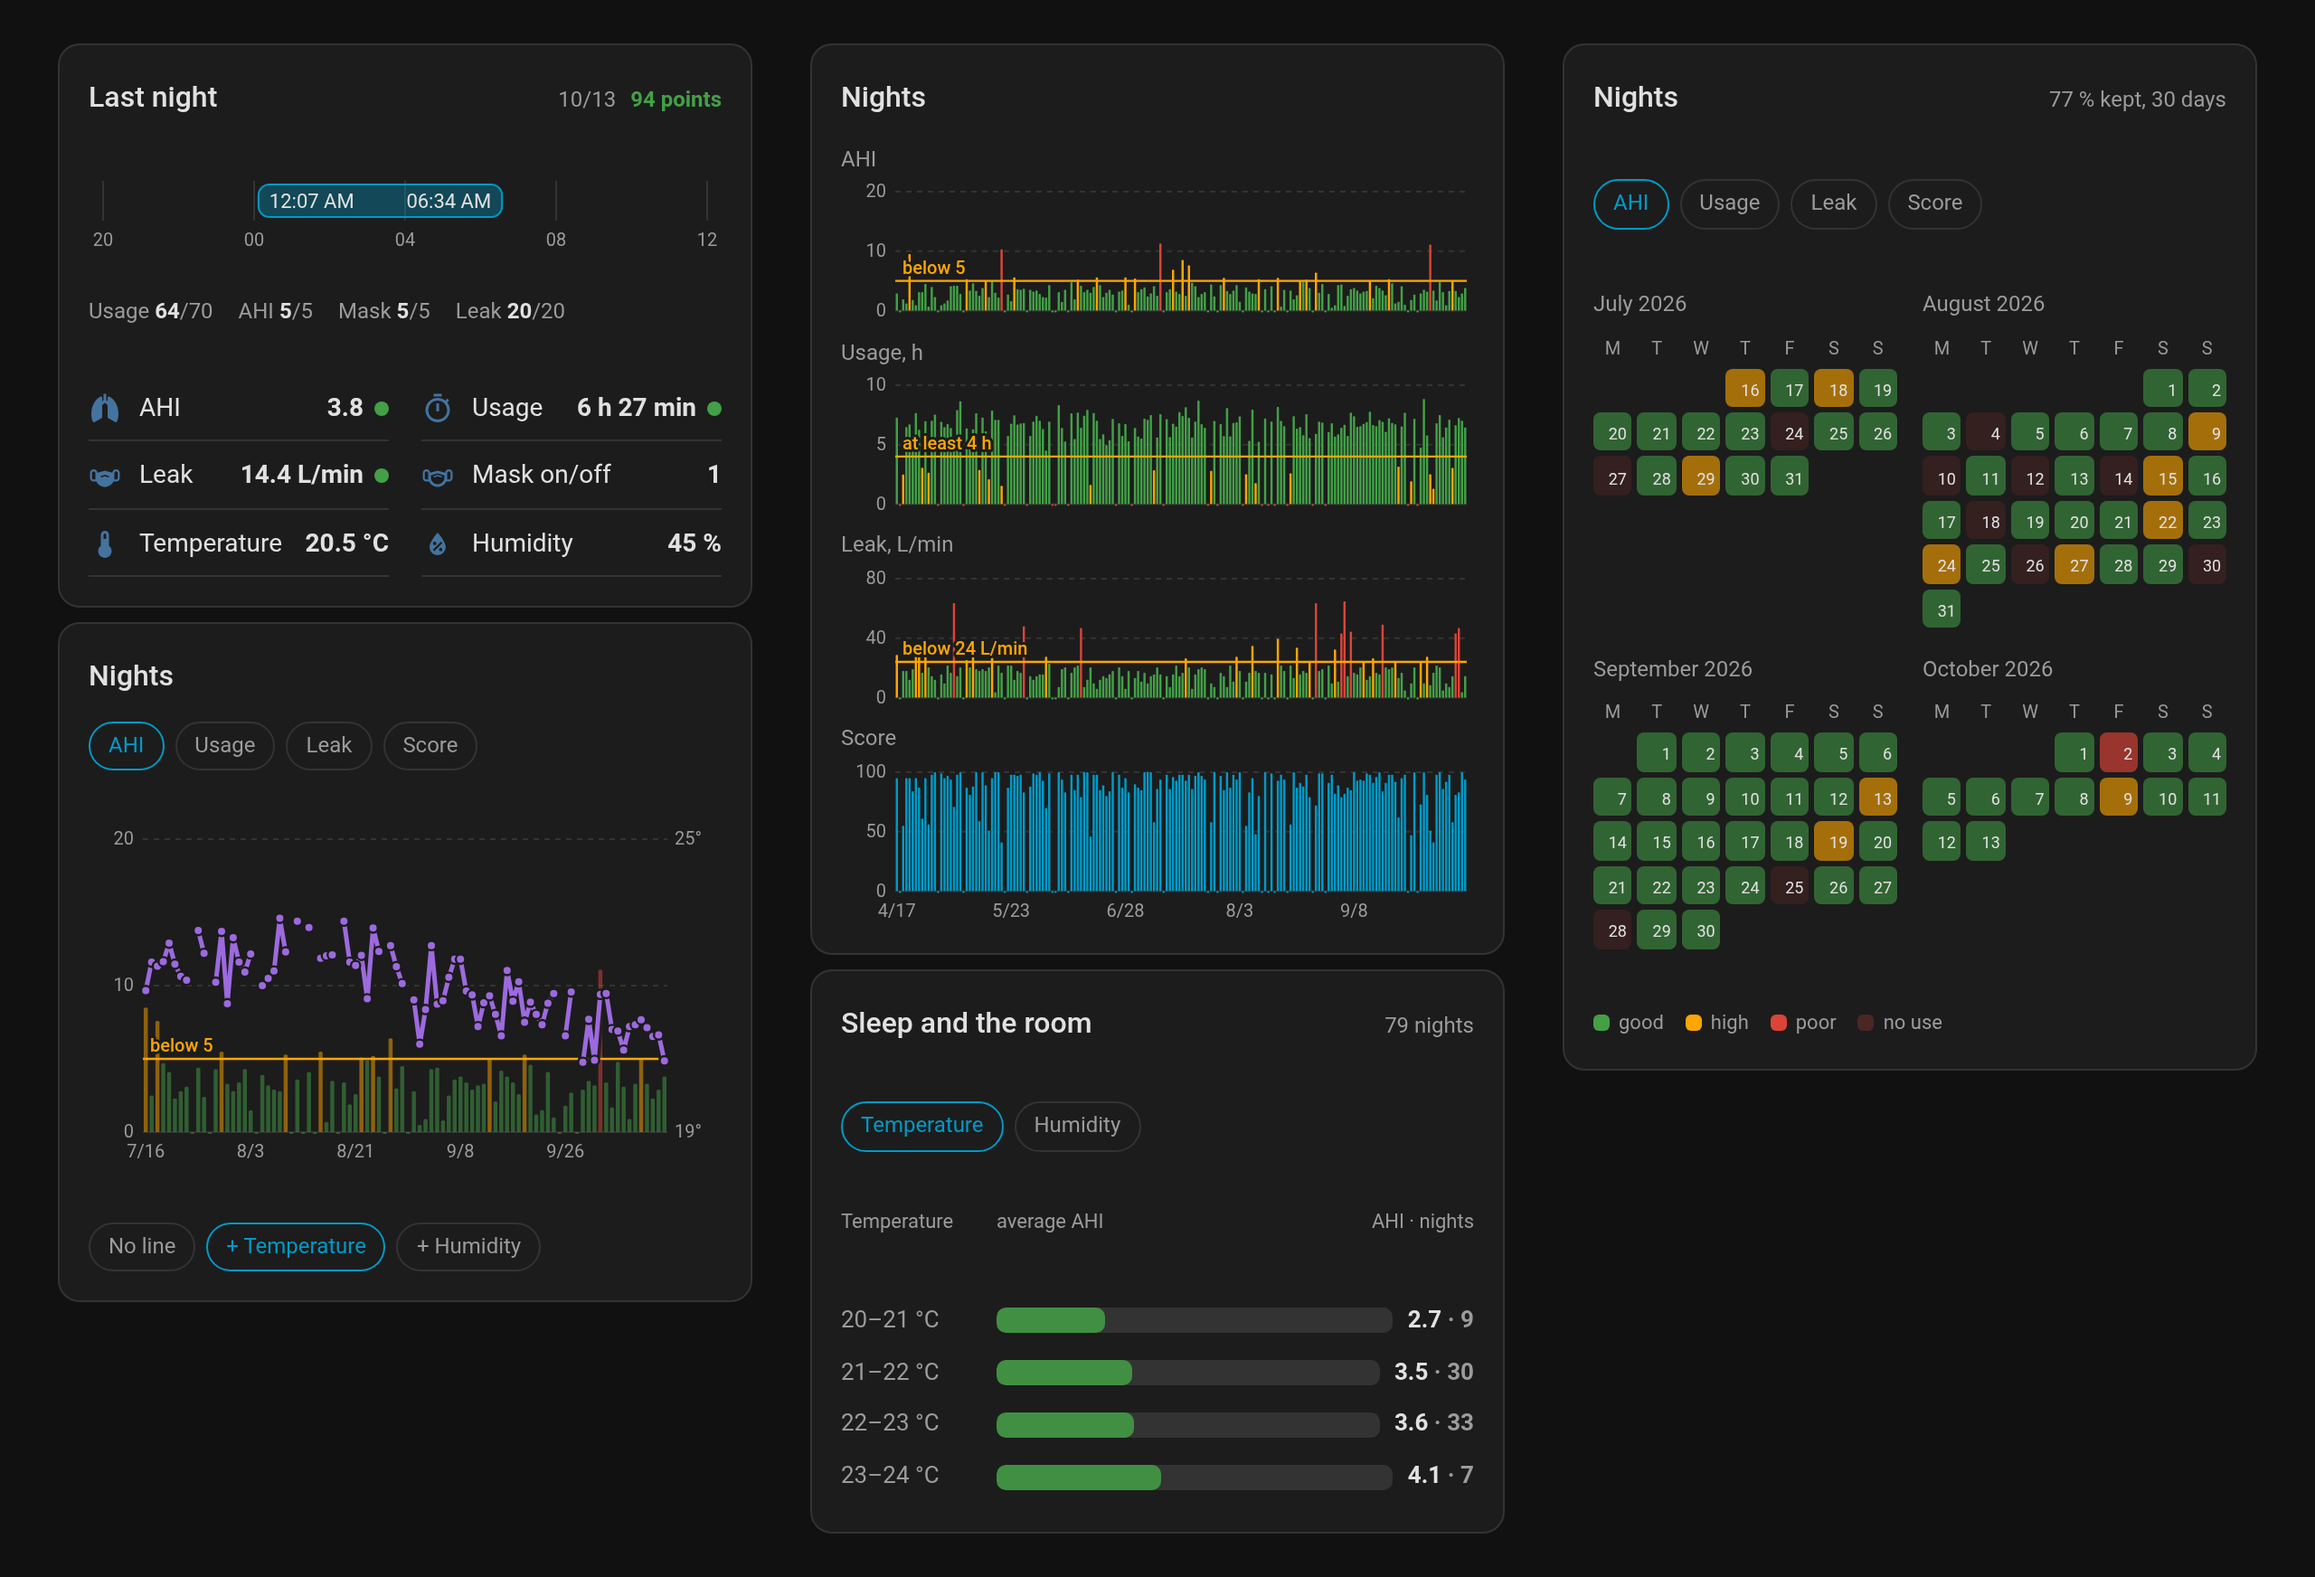
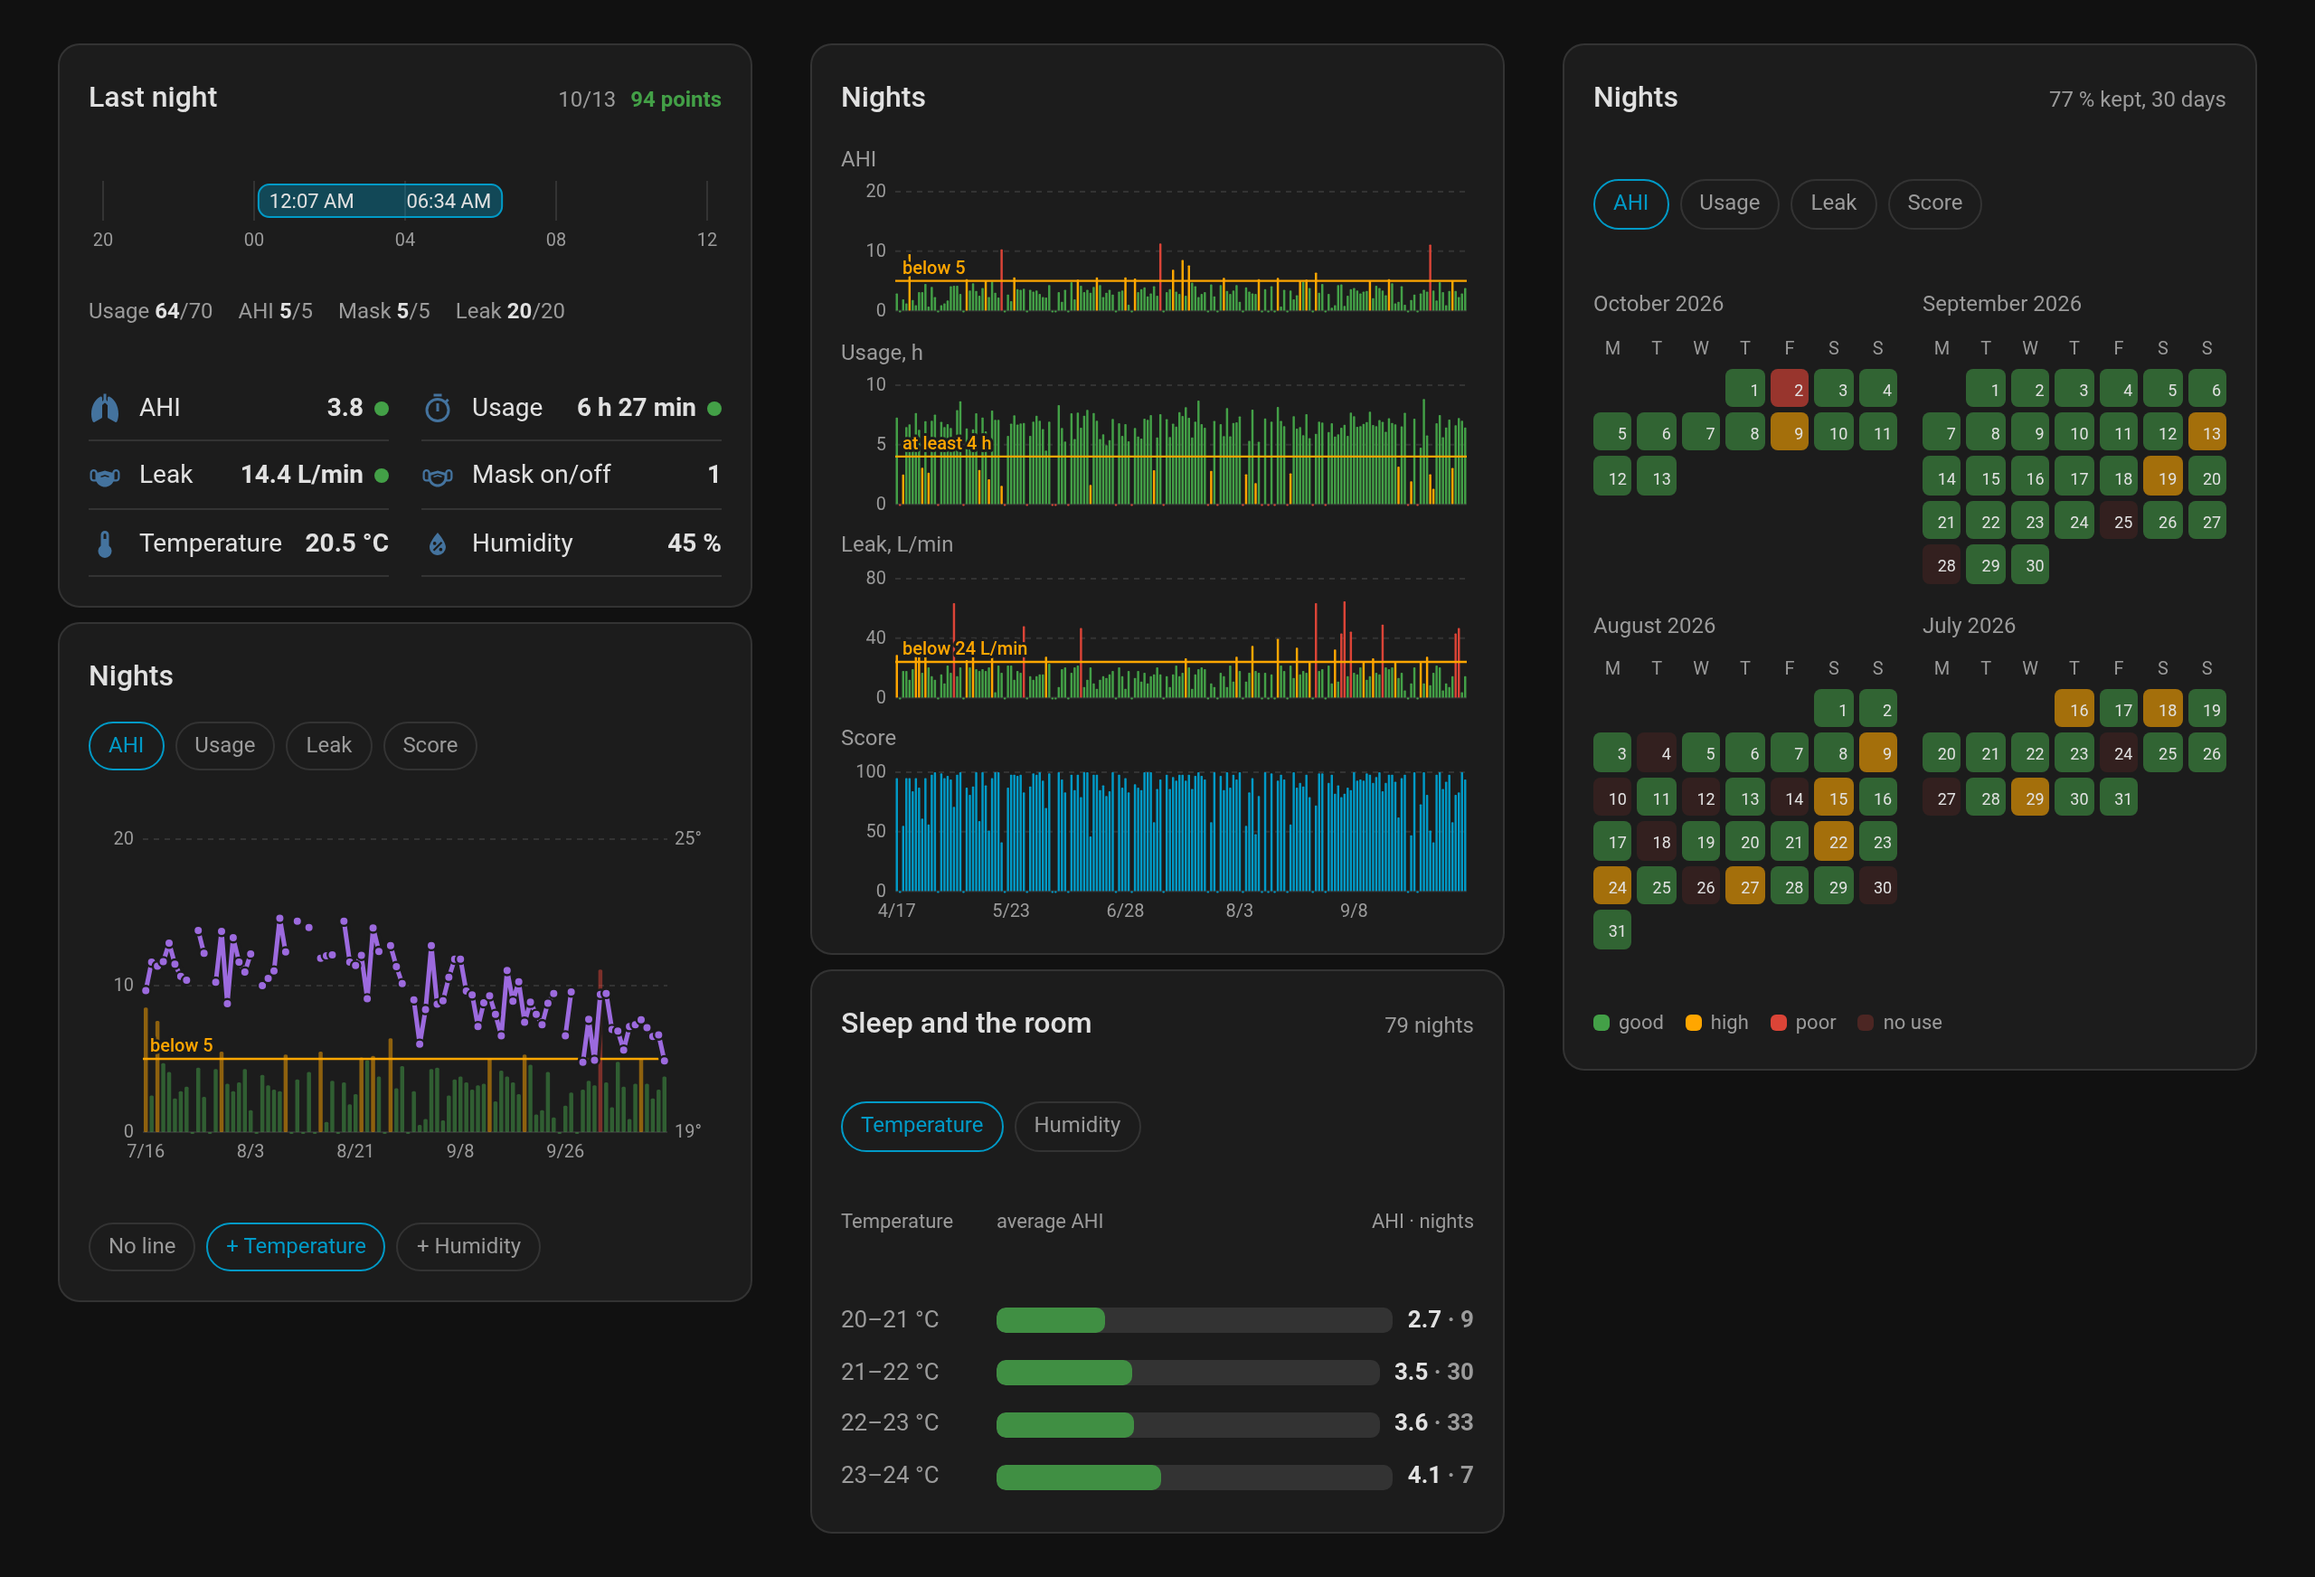
Show the calendar's newest month first

diff --git a/frontend/src/resmed-myair-sleep-card.ts b/frontend/src/resmed-myair-sleep-card.ts
@@ -125,8 +125,6 @@ export class ResmedMyairSleepCard extends LitElement {
     private frame?: number;
     private readonly resizes = typeof ResizeObserver === "undefined" ? undefined : new ResizeObserver(() => this.measureSoon());
     private observed?: Element;
-    /** The calendar last scrolled to its newest month, so a user's own scrolling stays until the calendar is drawn anew. */
-    private scrolledCalendar?: Element;
 
     public constructor() {
         super();
@@ -260,11 +258,6 @@ export class ResmedMyairSleepCard extends LitElement {
         }
         if (![...changed.keys()].every((key) => ["extra", "gap", "filled", "held", "heldSpread", "hovered"].includes(String(key)))) {
             this.measureSoon();
-        }
-        const calendar = this.renderRoot.querySelector(".scroller.calendar");
-        if (calendar && calendar !== this.scrolledCalendar && calendar.scrollHeight > calendar.clientHeight) {
-            calendar.scrollTop = calendar.scrollHeight;
-            this.scrolledCalendar = calendar;
         }
     }
 
@@ -558,7 +551,8 @@ export class ResmedMyairSleepCard extends LitElement {
         const end = windowEnd(nights, this.today());
         const days = nightsIn(nights, end, this.days());
         const byDate = new Map(days.map((day) => [day.date, day.night]));
-        const months = [...new Set(days.map(({ date }) => date.slice(0, 7)))];
+        // The newest month first, so it is in view at the top left however far back the calendar reaches.
+        const months = [...new Set(days.map(({ date }) => date.slice(0, 7)))].reverse();
         const weekdays = Array.from({ length: 7 }, (_, index) =>
             new Intl.DateTimeFormat(this.language(), { weekday: "narrow", timeZone: "UTC" }).format(new Date(Date.UTC(2024, 0, 1 + index))),
         );
@@ -586,7 +580,7 @@ export class ResmedMyairSleepCard extends LitElement {
                     ${months.map((month) => {
                         const first = `${month}-01`;
                         const length = new Date(Date.UTC(Number(month.slice(0, 4)), Number(month.slice(5)), 0)).getUTCDate();
-                        // The first month starts at the week of the window's first day, not with weeks of empty days.
+                        // The oldest month starts at the week of the window's first day, not with weeks of empty days.
                         const weekday = (date: string) => (new Date(`${date}T00:00:00Z`).getUTCDay() + 6) % 7;
                         const shown = days[0] && days[0].date > first ? addDays(days[0].date, -weekday(days[0].date)) : first;
                         const from = shown < first ? first : shown;

diff --git a/custom_components/resmed_myair_sleep/www/resmed-myair-sleep-card.js b/custom_components/resmed_myair_sleep/www/resmed-myair-sleep-card.js
@@ -1560,11 +1560,6 @@ var ResmedMyairSleepCard = class extends i4 {
     if (![...changed.keys()].every((key) => ["extra", "gap", "filled", "held", "heldSpread", "hovered"].includes(String(key)))) {
       this.measureSoon();
     }
-    const calendar = this.renderRoot.querySelector(".scroller.calendar");
-    if (calendar && calendar !== this.scrolledCalendar && calendar.scrollHeight > calendar.clientHeight) {
-      calendar.scrollTop = calendar.scrollHeight;
-      this.scrolledCalendar = calendar;
-    }
   }
   // ---- Data ----
   async fetch() {
@@ -1817,7 +1812,7 @@ var ResmedMyairSleepCard = class extends i4 {
     const end = windowEnd(nights, this.today());
     const days = nightsIn(nights, end, this.days());
     const byDate = new Map(days.map((day) => [day.date, day.night]));
-    const months = [...new Set(days.map(({ date }) => date.slice(0, 7)))];
+    const months = [...new Set(days.map(({ date }) => date.slice(0, 7)))].reverse();
     const weekdays = Array.from(
       { length: 7 },
       (_2, index) => new Intl.DateTimeFormat(this.language(), { weekday: "narrow", timeZone: "UTC" }).format(new Date(Date.UTC(2024, 0, 1 + index)))

diff --git a/README.md b/README.md
@@ -5,8 +5,8 @@ temperature and humidity over the night's session.
 
 [![GitHub Release][releases-shield]][releases] [![GitHub Release Date][release-date-shield]][releases] [![Downloads][downloads-shield]][releases] [![Marketplace][marketplace-shield]][marketplace] [![License][license-shield]](LICENSE)
 
-<img src="https://raw.githubusercontent.com/jesmak/resmed_myair_sleep/main/docs/images/dashboard-light.png#gh-light-mode-only" width="1280" alt="A dashboard of the sleep card's views. Last night's session from just after midnight to half past six with 94 points, AHI 3.8, 6 h 27 min of use and the bedroom at 20.5 °C. The nights since July as AHI bars under a purple line of the bedroom's temperature, cooling into autumn. Half a year of AHI, usage, leak and the score as four small charts. The calendar of July to October coloured by AHI, with 77 % of the last 30 nights kept. The average AHI rising from 2.7 to 4.1 as the bedroom warms from 20 to 24 °C">
-<img src="https://raw.githubusercontent.com/jesmak/resmed_myair_sleep/main/docs/images/dashboard-dark.png#gh-dark-mode-only" width="1280" alt="A dashboard of the sleep card's views. Last night's session from just after midnight to half past six with 94 points, AHI 3.8, 6 h 27 min of use and the bedroom at 20.5 °C. The nights since July as AHI bars under a purple line of the bedroom's temperature, cooling into autumn. Half a year of AHI, usage, leak and the score as four small charts. The calendar of July to October coloured by AHI, with 77 % of the last 30 nights kept. The average AHI rising from 2.7 to 4.1 as the bedroom warms from 20 to 24 °C">
+<img src="https://raw.githubusercontent.com/jesmak/resmed_myair_sleep/main/docs/images/dashboard-light.png#gh-light-mode-only" width="1280" alt="A dashboard of the sleep card's views. Last night's session from just after midnight to half past six with 94 points, AHI 3.8, 6 h 27 min of use and the bedroom at 20.5 °C. The nights since July as AHI bars under a purple line of the bedroom's temperature, cooling into autumn. Half a year of AHI, usage, leak and the score as four small charts. The calendar of October back to July coloured by AHI, with 77 % of the last 30 nights kept. The average AHI rising from 2.7 to 4.1 as the bedroom warms from 20 to 24 °C">
+<img src="https://raw.githubusercontent.com/jesmak/resmed_myair_sleep/main/docs/images/dashboard-dark.png#gh-dark-mode-only" width="1280" alt="A dashboard of the sleep card's views. Last night's session from just after midnight to half past six with 94 points, AHI 3.8, 6 h 27 min of use and the bedroom at 20.5 °C. The nights since July as AHI bars under a purple line of the bedroom's temperature, cooling into autumn. Half a year of AHI, usage, leak and the score as four small charts. The calendar of October back to July coloured by AHI, with 77 % of the last 30 nights kept. The average AHI rising from 2.7 to 4.1 as the bedroom warms from 20 to 24 °C">
 
 ## What is it?
 
@@ -153,7 +153,7 @@ The integration comes with a dashboard card for one machine, with three views to
   temperature and humidity. A dot beside AHI, usage and leak tells whether the value is within its limit.
 - **The nights** shows the nights of the last `days` days. They can be drawn as bars of one
   figure, with a line of the bedroom's temperature or humidity over them, as four small charts of AHI, usage, leak and
-  the score, or as a calendar coloured by one figure, with the 30-day compliance at the top.
+  the score, or as a calendar coloured by one figure, its newest month first, with the 30-day compliance at the top.
 - **Sleep and the room** shows how AHI goes with the bedroom's temperature or humidity over the nights that have them.
   It can be drawn as the average AHI for each degree or each 5 % of humidity, or as a dot for each night, coloured by
   its mask leak.
@@ -204,7 +204,7 @@ a chart gets beyond its own height first widens its gaps to the parts above and 
 chart grows by the rest. The same goes for a card held taller than its content.
 
 Held lower than its content needs, a chart shrinks down to 90 px, and the small charts down to 40 px each. The rows of
-last night, the room's ranges and the calendar scroll instead, and the calendar opens on its newest month. Each view
+last night, the room's ranges and the calendar scroll instead. Each view
 has its least height, which the card doesn't go below.
 
 ## Examples
